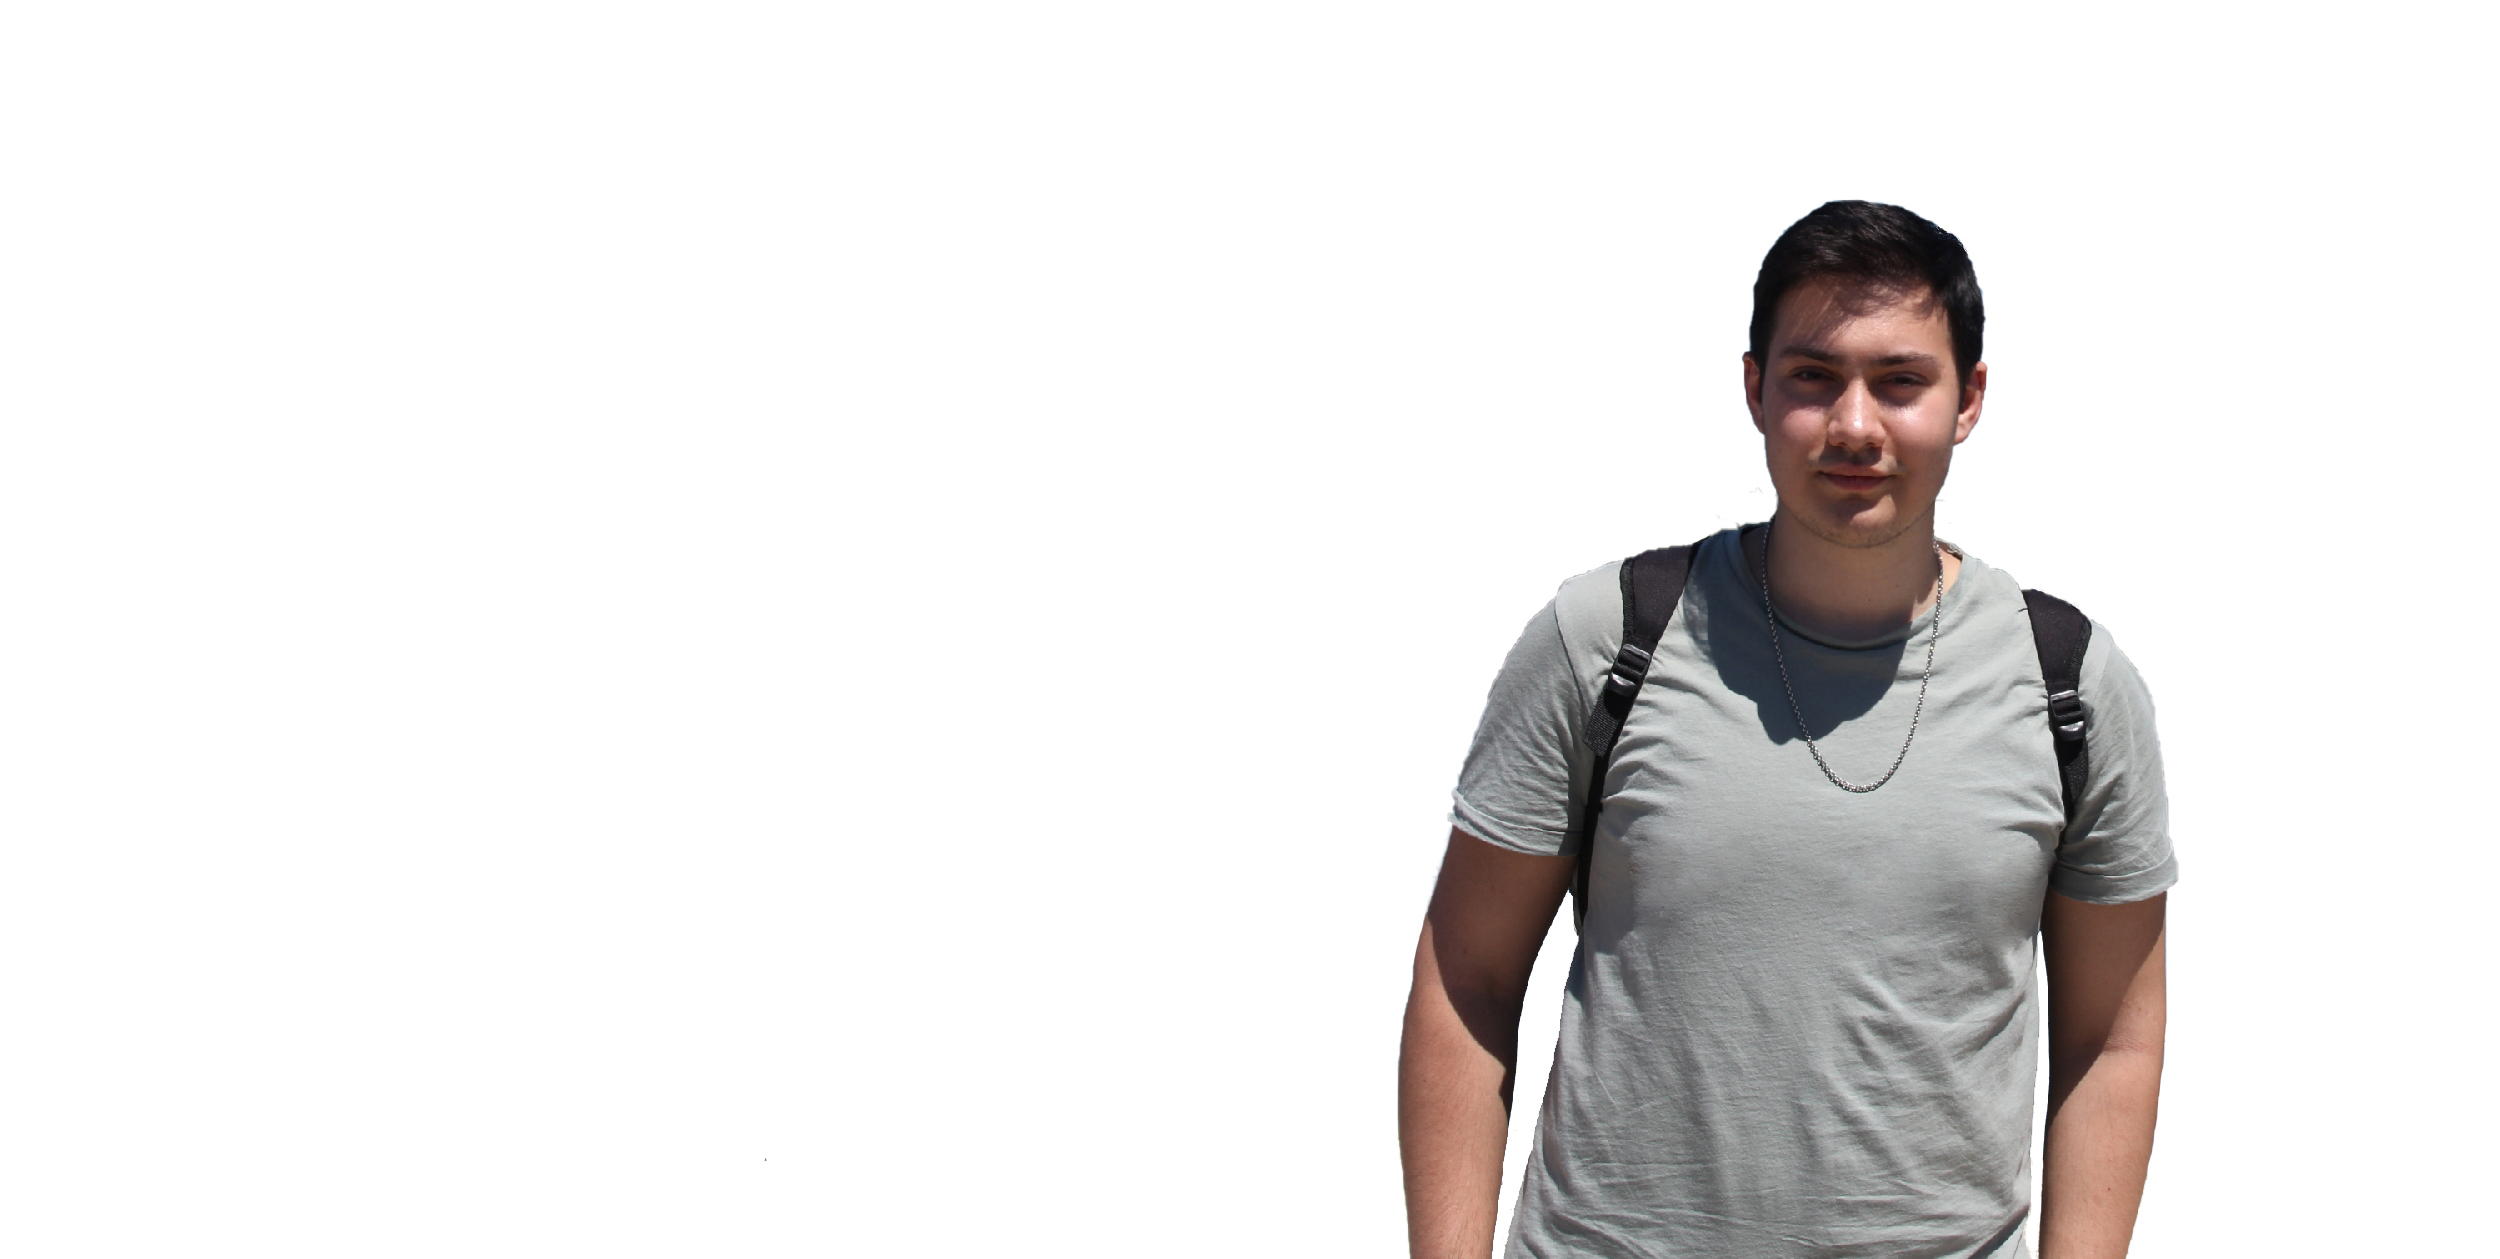
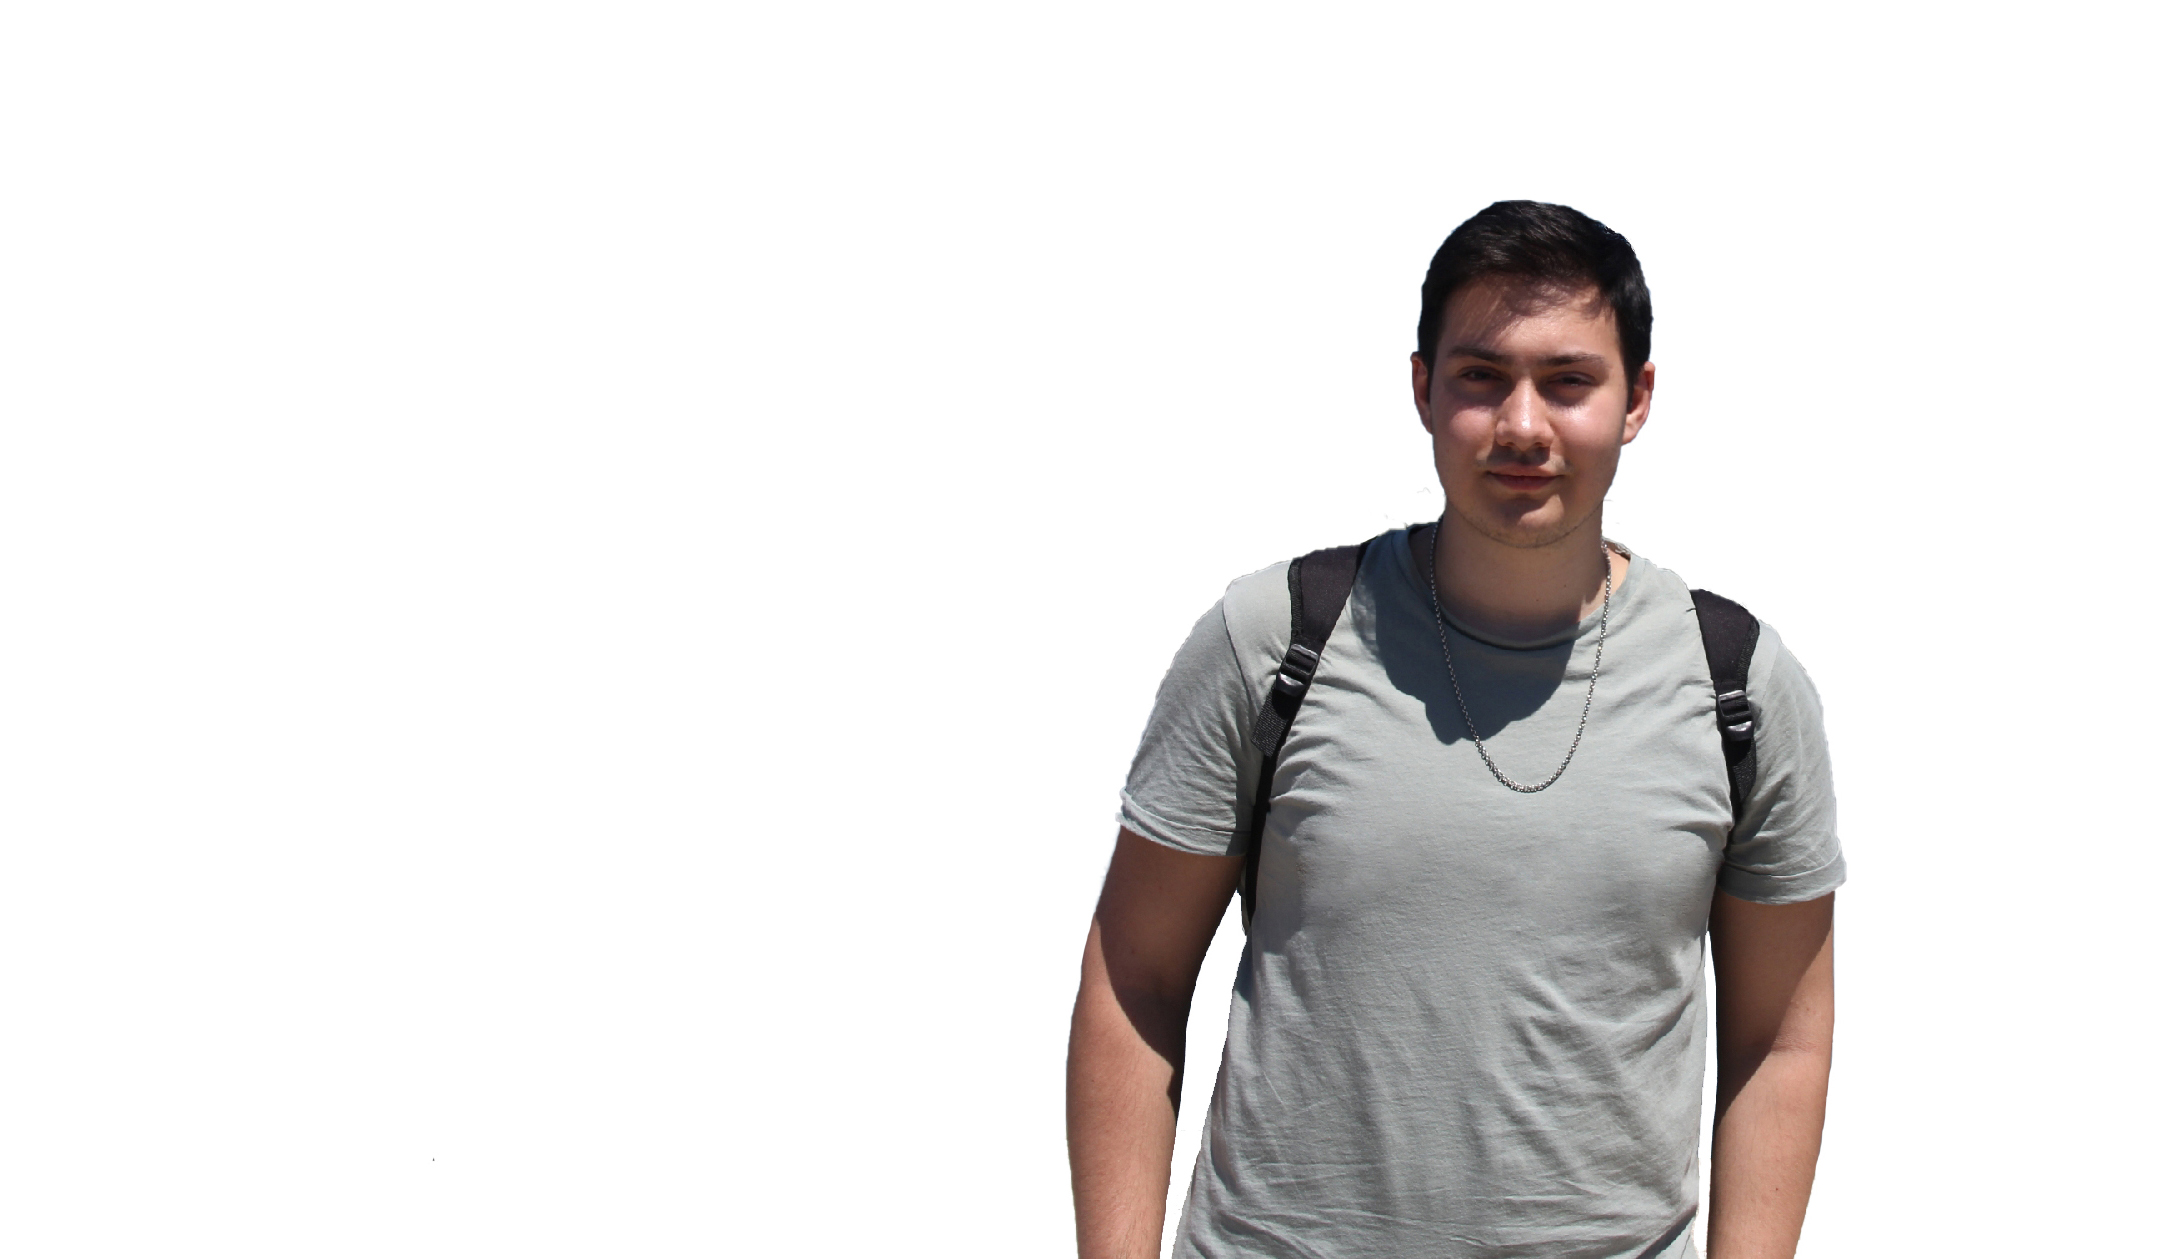
mobil için bacground düzeltildi

Changed region(s): [[0.4636, 0.1549, 0.8962, 1.0]]

diff --git a/assets/css/style.css b/assets/css/style.css
@@ -275,7 +275,7 @@ h6 {
 # Hero Section
 --------------------------------------------------------------*/
 #hero {
-  width: 100%;
+  width: 105%;
   height: 100vh;
   background: url("../img/mee.jpg") top right no-repeat;
   background-size: cover;
